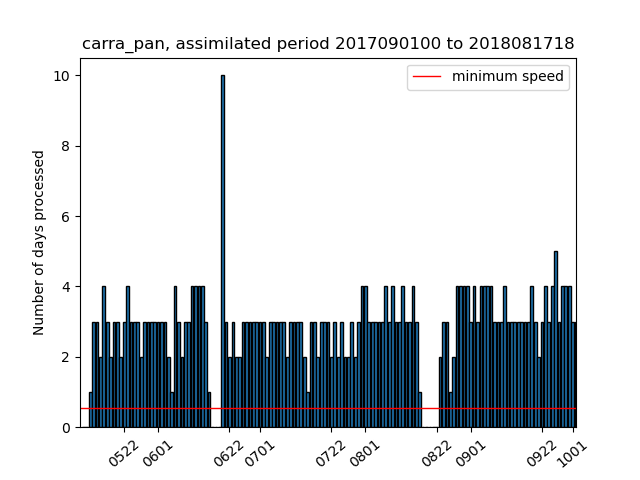
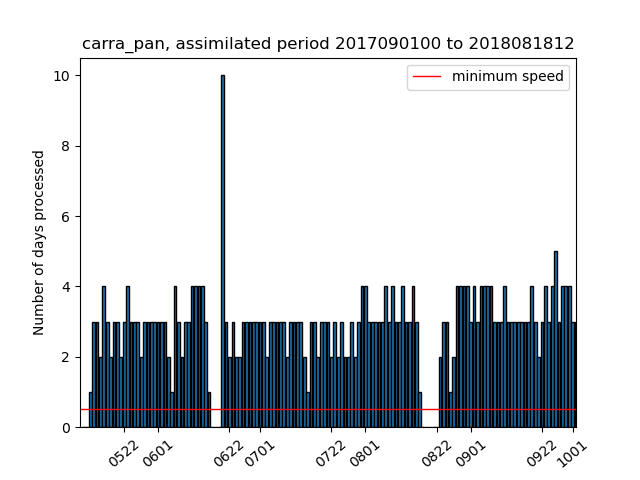
update repo

Changed region(s): [[0.125, 0.8438, 0.9062, 0.875], [0.8438, 0.0625, 0.9062, 0.0938]]

diff --git a/current_state_sims.html b/current_state_sims.html
@@ -2,18 +2,18 @@
 <h1>Estimated completion dates and simulation speeds</h1>
 <p>Stream (production) completion date based on 30d (7d) moving avg speed</p>
 <p><a href="https://docs.google.com/document/d/1zDKAxuEXYnWWYzT3SZnZwY5WW8nodUMeYRjAGz46coc/edit#">Details of the calculation of the completion dates</a></p>
-<p>Last update: 2021/10/03 06:41:56 UTC</p>
+<p>Last update: 2021/10/03 12:40:37 UTC</p>
 <p>Total progress CARRA: 99.44% <a href="https://hirlam.org/portal/CARRA/Progress/GanntChart_CARRA.html"> (see detailed progress meter in Gantt chart) </a></p>
 <p>Total progress PANARCTIC: 91.67% </p>
 <p><a href="https://hirlam.org/portal/CARRA/Progress/waiting_times.html"> Queue waiting times for all streams</a></p>
 <p><a href="https://hirlam.org/portal/CARRA/Progress/mars_status.html"> MARS archive throughput </a></p>
 <html><table border="1"><tr><th>expId</th><th>Current assimilated date</th><th>End date of stream </th><th> Completion date</th><th> Avg. throughput (7d) </th> <th>Avg. throughput (30d) </th> <th> Remarks</tr>
-<tr bgcolor="#FFFF00"><td>carra_NE_3</td><td>2021063000</td><td>2021063021</td><td>2021100306</td><td>(0.0) days/day</td><td>(3.5) days/day</td><td>Inactive the past week</tr>
+<tr bgcolor="#FFFF00"><td>carra_NE_3</td><td>2021063000</td><td>2021063021</td><td>2021100312</td><td>(0.0) days/day</td><td>(3.5) days/day</td><td>Inactive the past week</tr>
 <tr bgcolor="#33FF38"><td>carra_NE_4</td><td>1992090100</td><td>1992083021</td><td>Finished on 20210824</td><td>(0.0) days/day</td><td>(0.0) days/day</td><td>Stream finished</tr>
 <tr bgcolor="#33FF38"><td>carra_NE_5</td><td>1994090100</td><td>1994083021</td><td>Finished on 20210824</td><td>(0.0) days/day</td><td>(0.0) days/day</td><td>Stream finished</tr>
-<tr bgcolor="#33FF38"><td>carra_NE_6</td><td>1997070100</td><td>1997063021</td><td>2021100222</td><td>(0.0) days/day</td><td>(2.83) days/day</td><td>Stream finished</tr>
-<tr bgcolor="#FFFF00"><td>carra_IGB_3</td><td>2021063000</td><td>2021063021</td><td>2021100306</td><td>(0.0) days/day</td><td>(3.37) days/day</td><td>Inactive the past week</tr>
-<tr bgcolor="#33FF38"><td>carra_IGB_4</td><td>1992090100</td><td>1992083021</td><td>2021100103</td><td>(0.0) days/day</td><td>(0.93) days/day</td><td>Stream finished</tr>
-<tr bgcolor="#33FF38"><td>carra_IGB_5</td><td>1994090100</td><td>1994083021</td><td>2021100219</td><td>(0.0) days/day</td><td>(4.4) days/day</td><td>Stream finished</tr>
-<tr bgcolor="#FFA500"><td>carra_IGB_6</td><td>1997010921</td><td>1997063021</td><td>2021110106</td><td>(6.71) days/day</td><td>(5.93) days/day</td><td>Completion date after project end (20211031)</tr>
-<tr bgcolor="#FFFFFF"><td>carra_pan</td><td>2018081718</td><td>2018090100</td><td>2021100716</td><td>(3.71) days/day</td><td>(3.4) days/day</td><td></tr>
+<tr bgcolor="#33FF38"><td>carra_NE_6</td><td>1997070100</td><td>1997063021</td><td>2021100304</td><td>(0.0) days/day</td><td>(2.83) days/day</td><td>Stream finished</tr>
+<tr bgcolor="#FFFF00"><td>carra_IGB_3</td><td>2021063000</td><td>2021063021</td><td>2021100312</td><td>(0.0) days/day</td><td>(3.37) days/day</td><td>Inactive the past week</tr>
+<tr bgcolor="#33FF38"><td>carra_IGB_4</td><td>1992090100</td><td>1992083021</td><td>2021100109</td><td>(0.0) days/day</td><td>(0.93) days/day</td><td>Stream finished</tr>
+<tr bgcolor="#33FF38"><td>carra_IGB_5</td><td>1994090100</td><td>1994083021</td><td>2021100301</td><td>(0.0) days/day</td><td>(4.4) days/day</td><td>Stream finished</tr>
+<tr bgcolor="#FFA500"><td>carra_IGB_6</td><td>1997011112</td><td>1997063021</td><td>2021110104</td><td>(6.71) days/day</td><td>(5.93) days/day</td><td>Completion date after project end (20211031)</tr>
+<tr bgcolor="#FFFFFF"><td>carra_pan</td><td>2018081812</td><td>2018090100</td><td>2021100715</td><td>(3.71) days/day</td><td>(3.4) days/day</td><td></tr>
